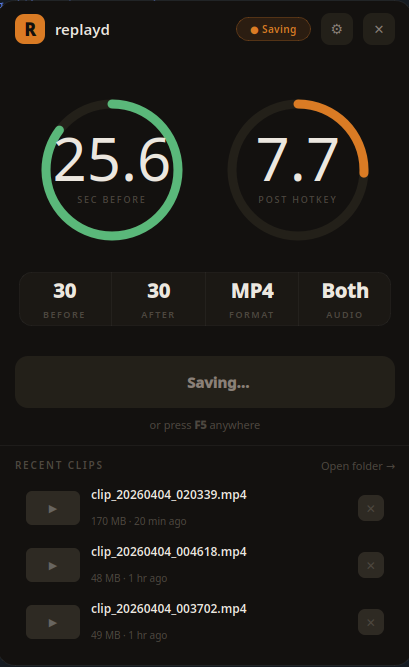
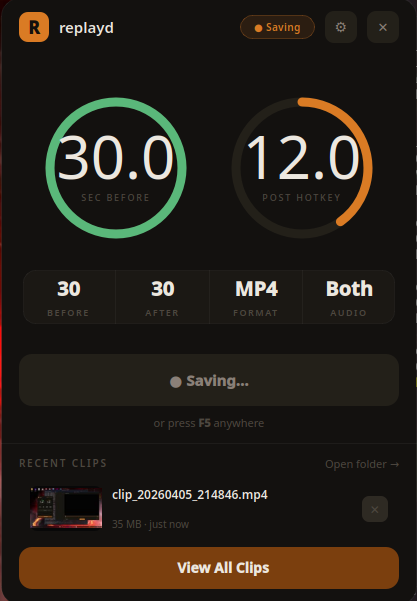
Added new prints of the app

diff --git a/README.md b/README.md
@@ -6,11 +6,41 @@ Built specifically for [Bazzite](https://bazzite.gg/) but should work on any dis
 
 ---
 
+## Interface Overview
+
+### Main Window & Settings
+
+The main interface and settings panel cover all core functionality.
+
+<table align="center">
+  <tr>
+    <td align="center">
+      <img src="assets/main-window.png" width="450"/><br/>
+      <b>Main Window</b><br/>
+      Live buffer status, quick controls, and instant replay capture (F5).
+    </td>
+    <td align="center">
+      <img src="assets/settings.png" width="450"/><br/>
+      <b>Settings Panel</b><br/>
+      Configure buffer, hotkey, audio sources, codec, and output options.
+    </td>
+  </tr>
+</table>
+
+---
+
+### Clip Editor
+
+Trim and export clips without leaving the app.
+
 <div align="center">
-  <img src="assets/main-window.png" width="45%" />
-  &nbsp;&nbsp;&nbsp;
-  <img src="assets/settings.png" width="45%" />
+  <img src="assets/clip-editor.png" width="70%" />
 </div>
+
+- **Timeline trimming** — set exact in/out points  
+- **Preview player** — review clips before exporting  
+- **Audio mixer** — control game and mic tracks independently  
+- **Export** — saves a new processed clip without overwriting the original  
 
 ---
 
